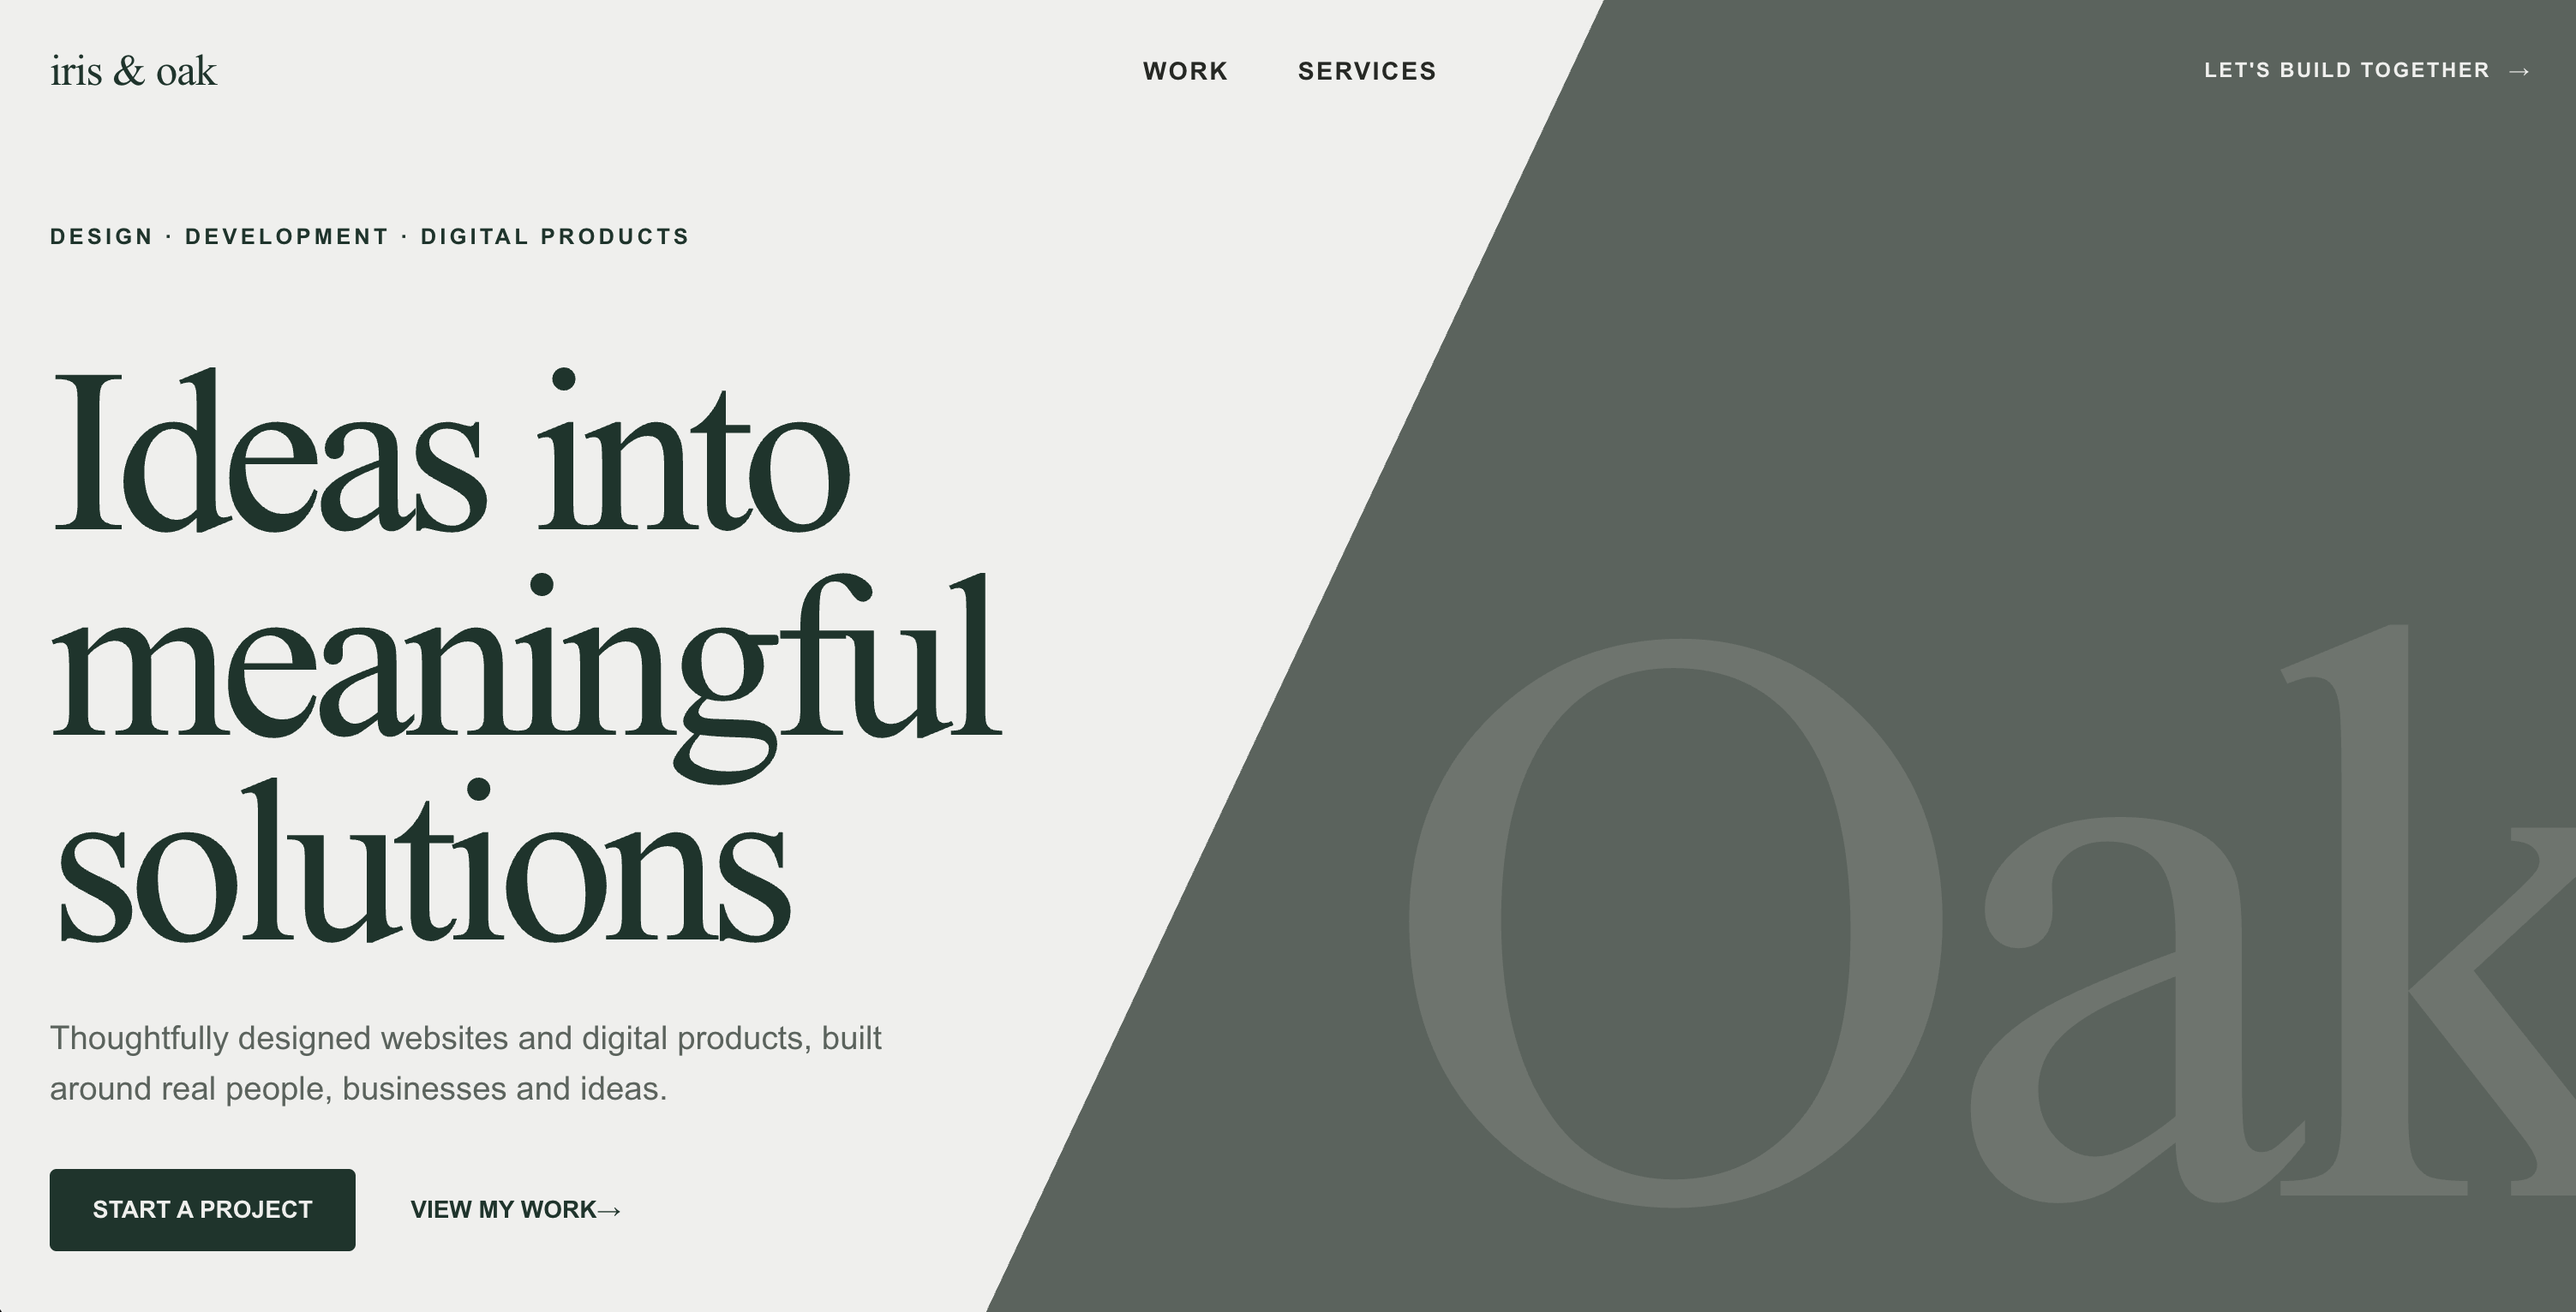
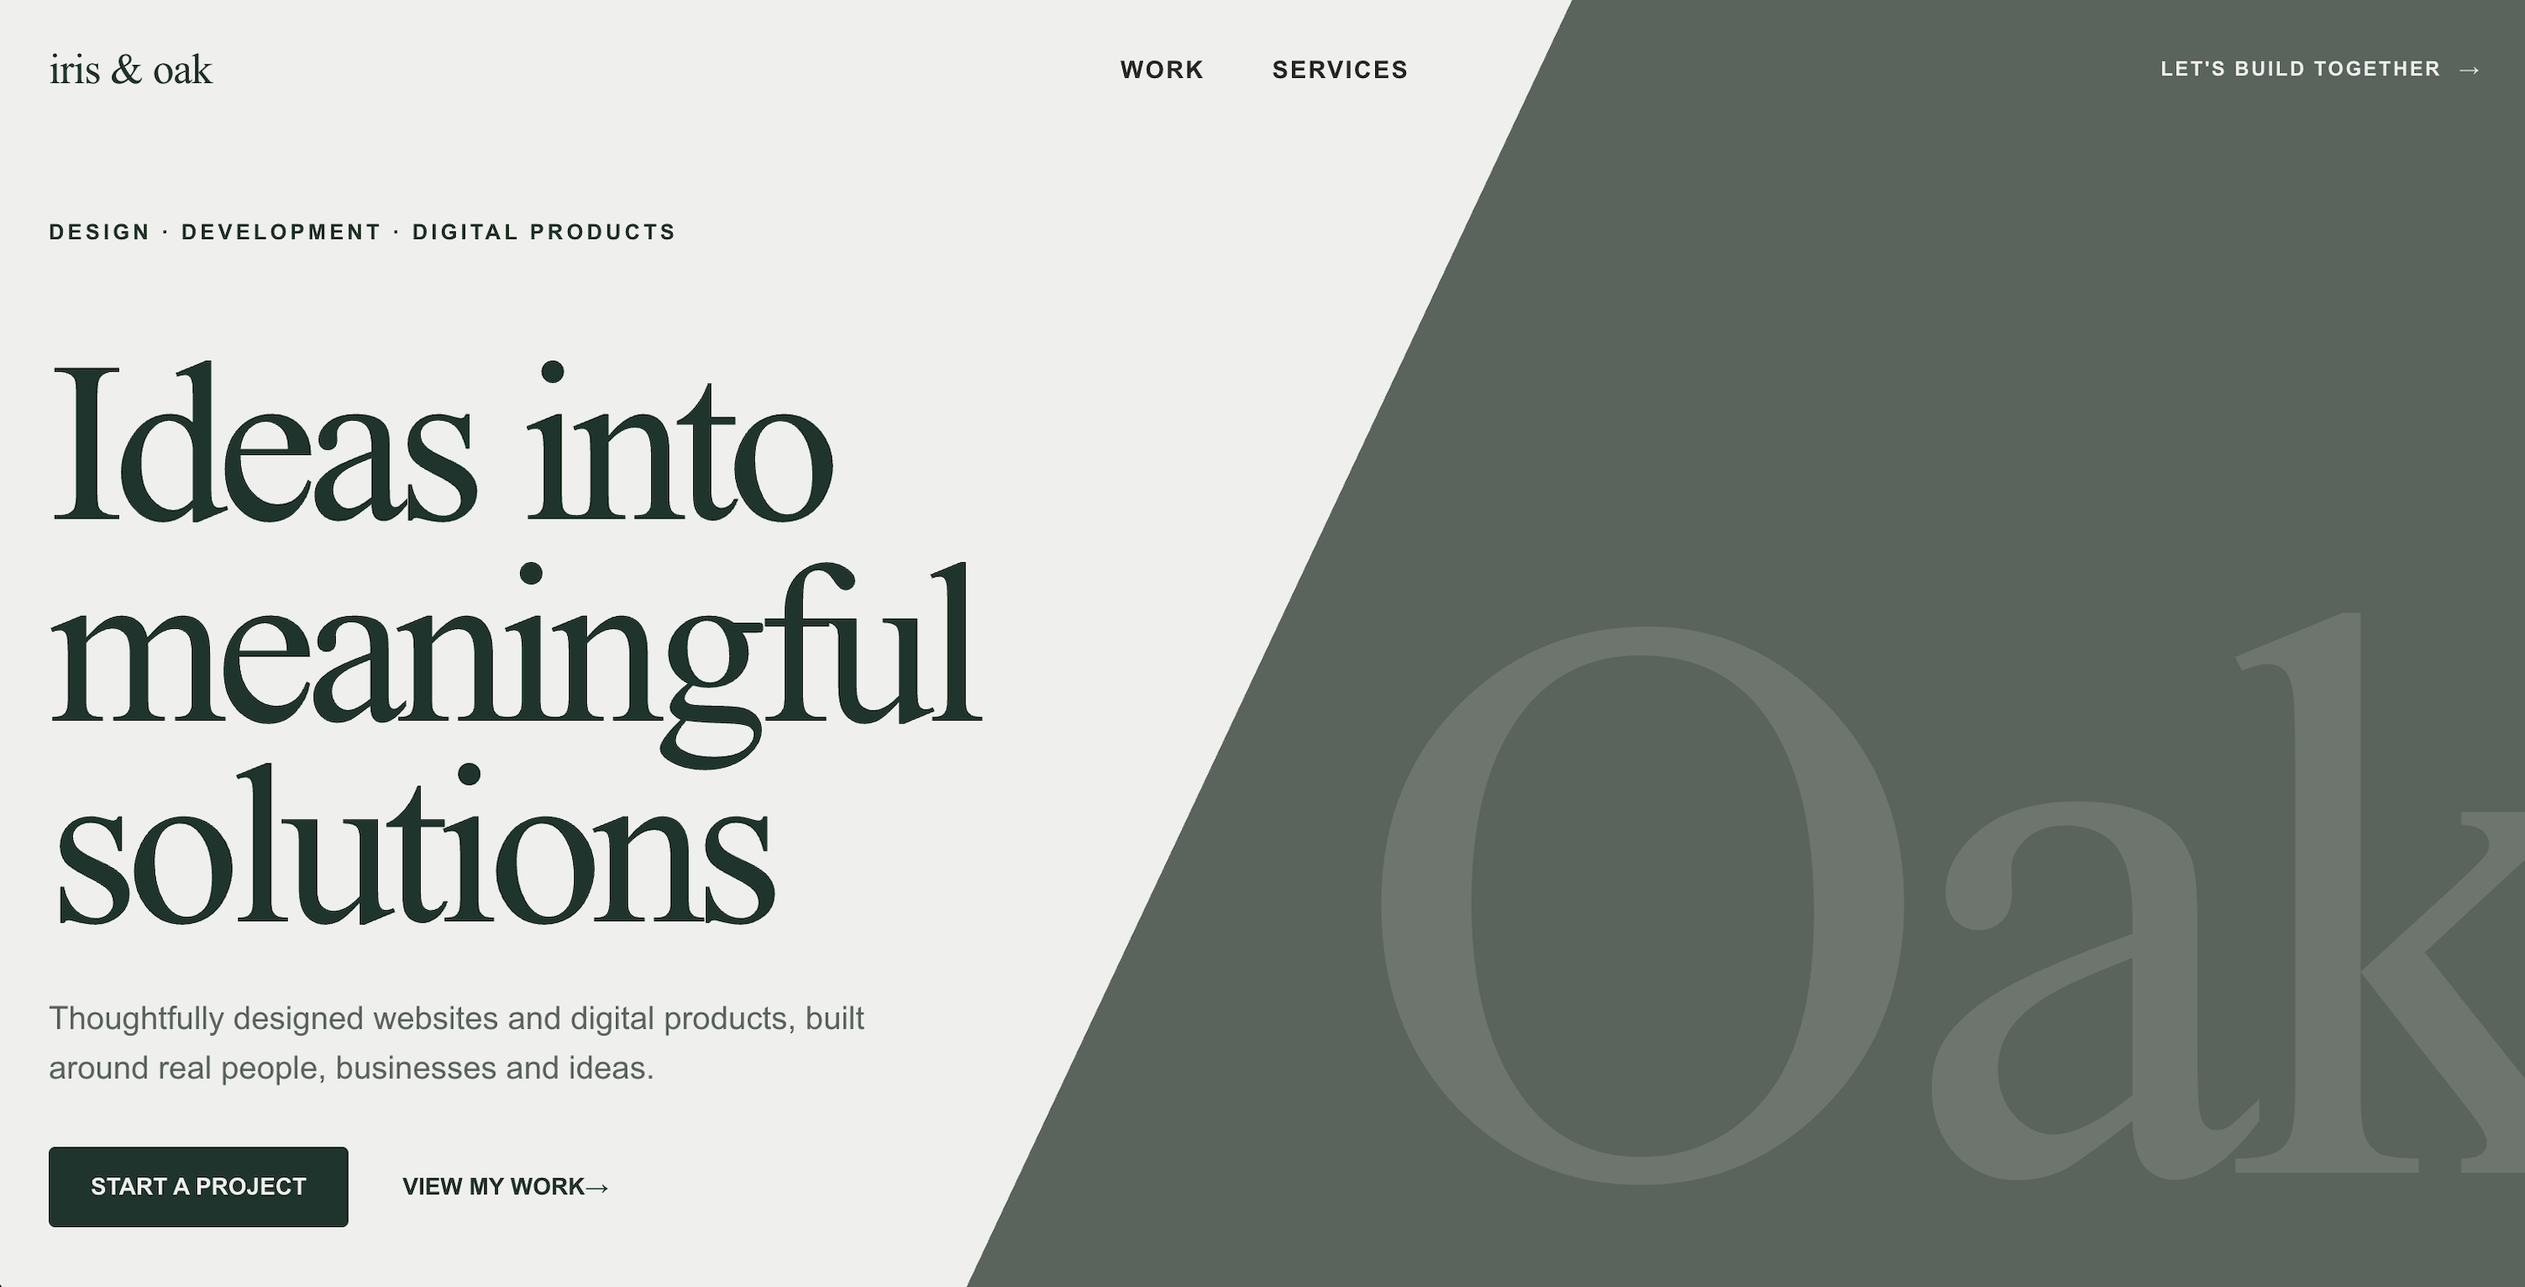
feat: update portfolio case studies

diff --git a/src/data/projects.js b/src/data/projects.js
@@ -40,7 +40,7 @@ export const projects = [
     detailsPath: "/case-studies/iris-and-oak",
     github: "",
     demo: "https://www.irisoak.dev",
-    image: "/screenshots/irisandoak/irisoak-homepage.png",
+    image: "/screenshots/irisoak-card.png",
     images: [
       "/screenshots/irisandoak/irisoak-homepage.png",
       "/screenshots/irisandoak/irisoak-services.png",
